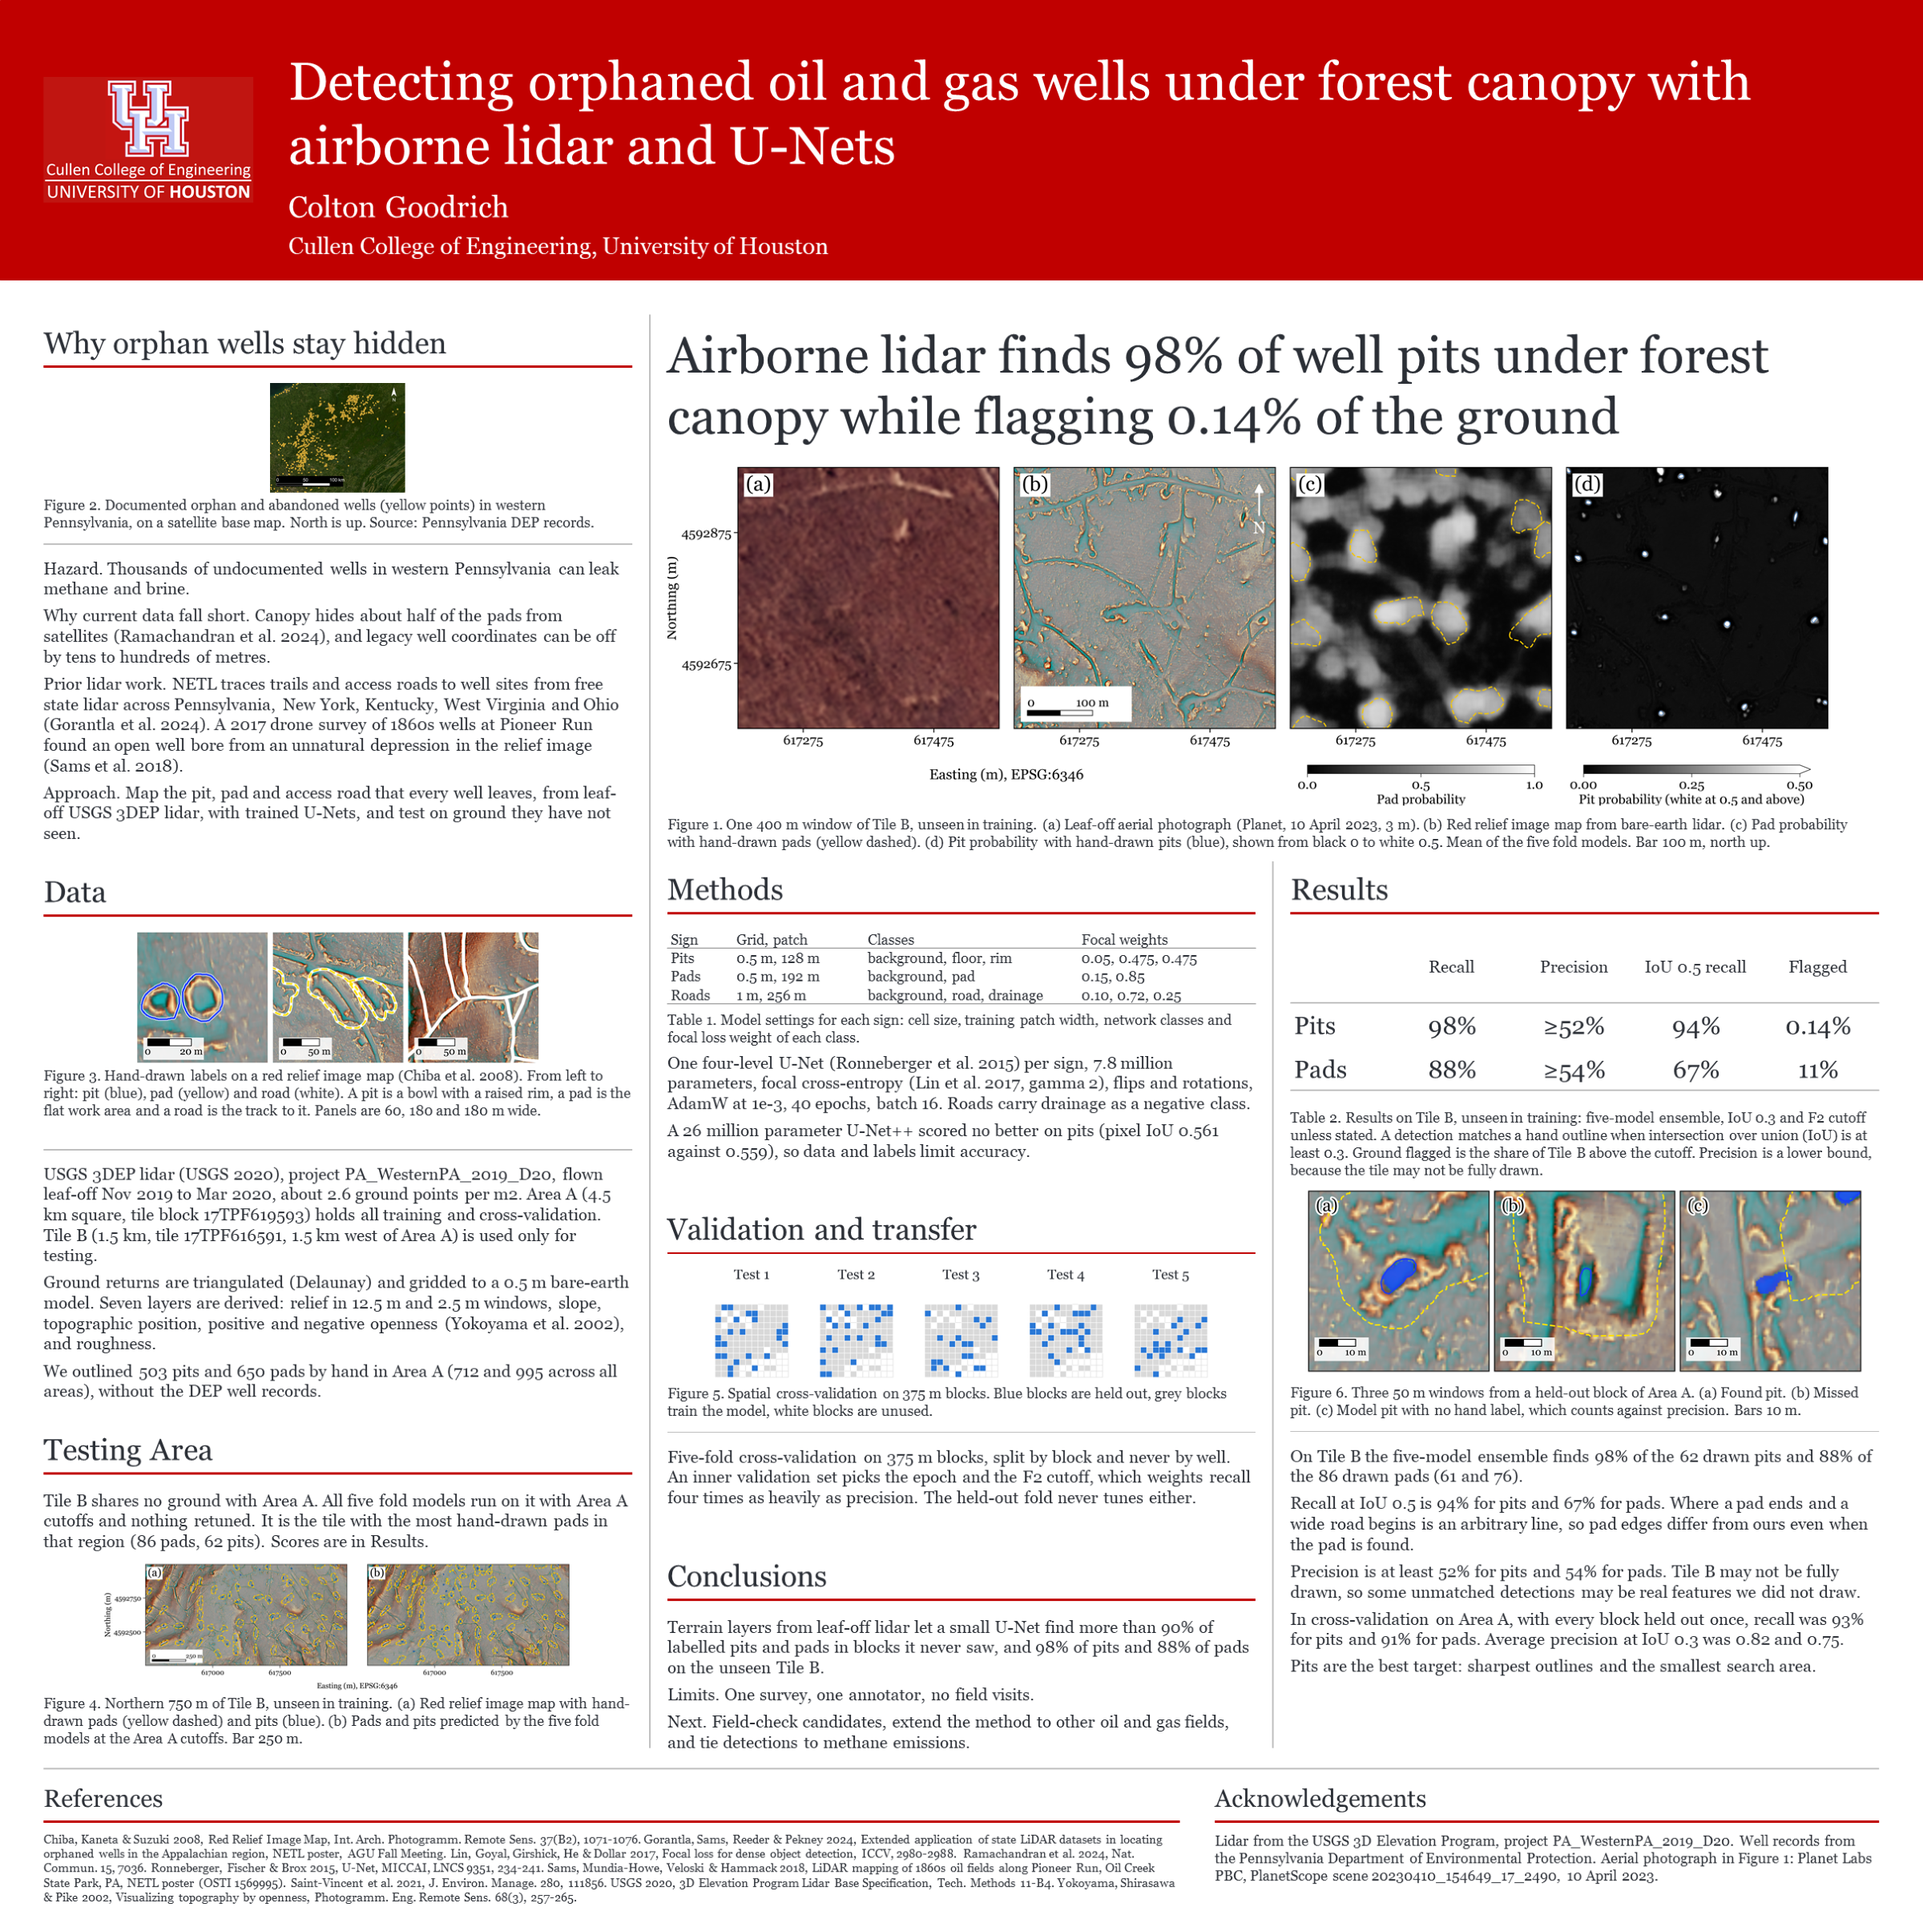
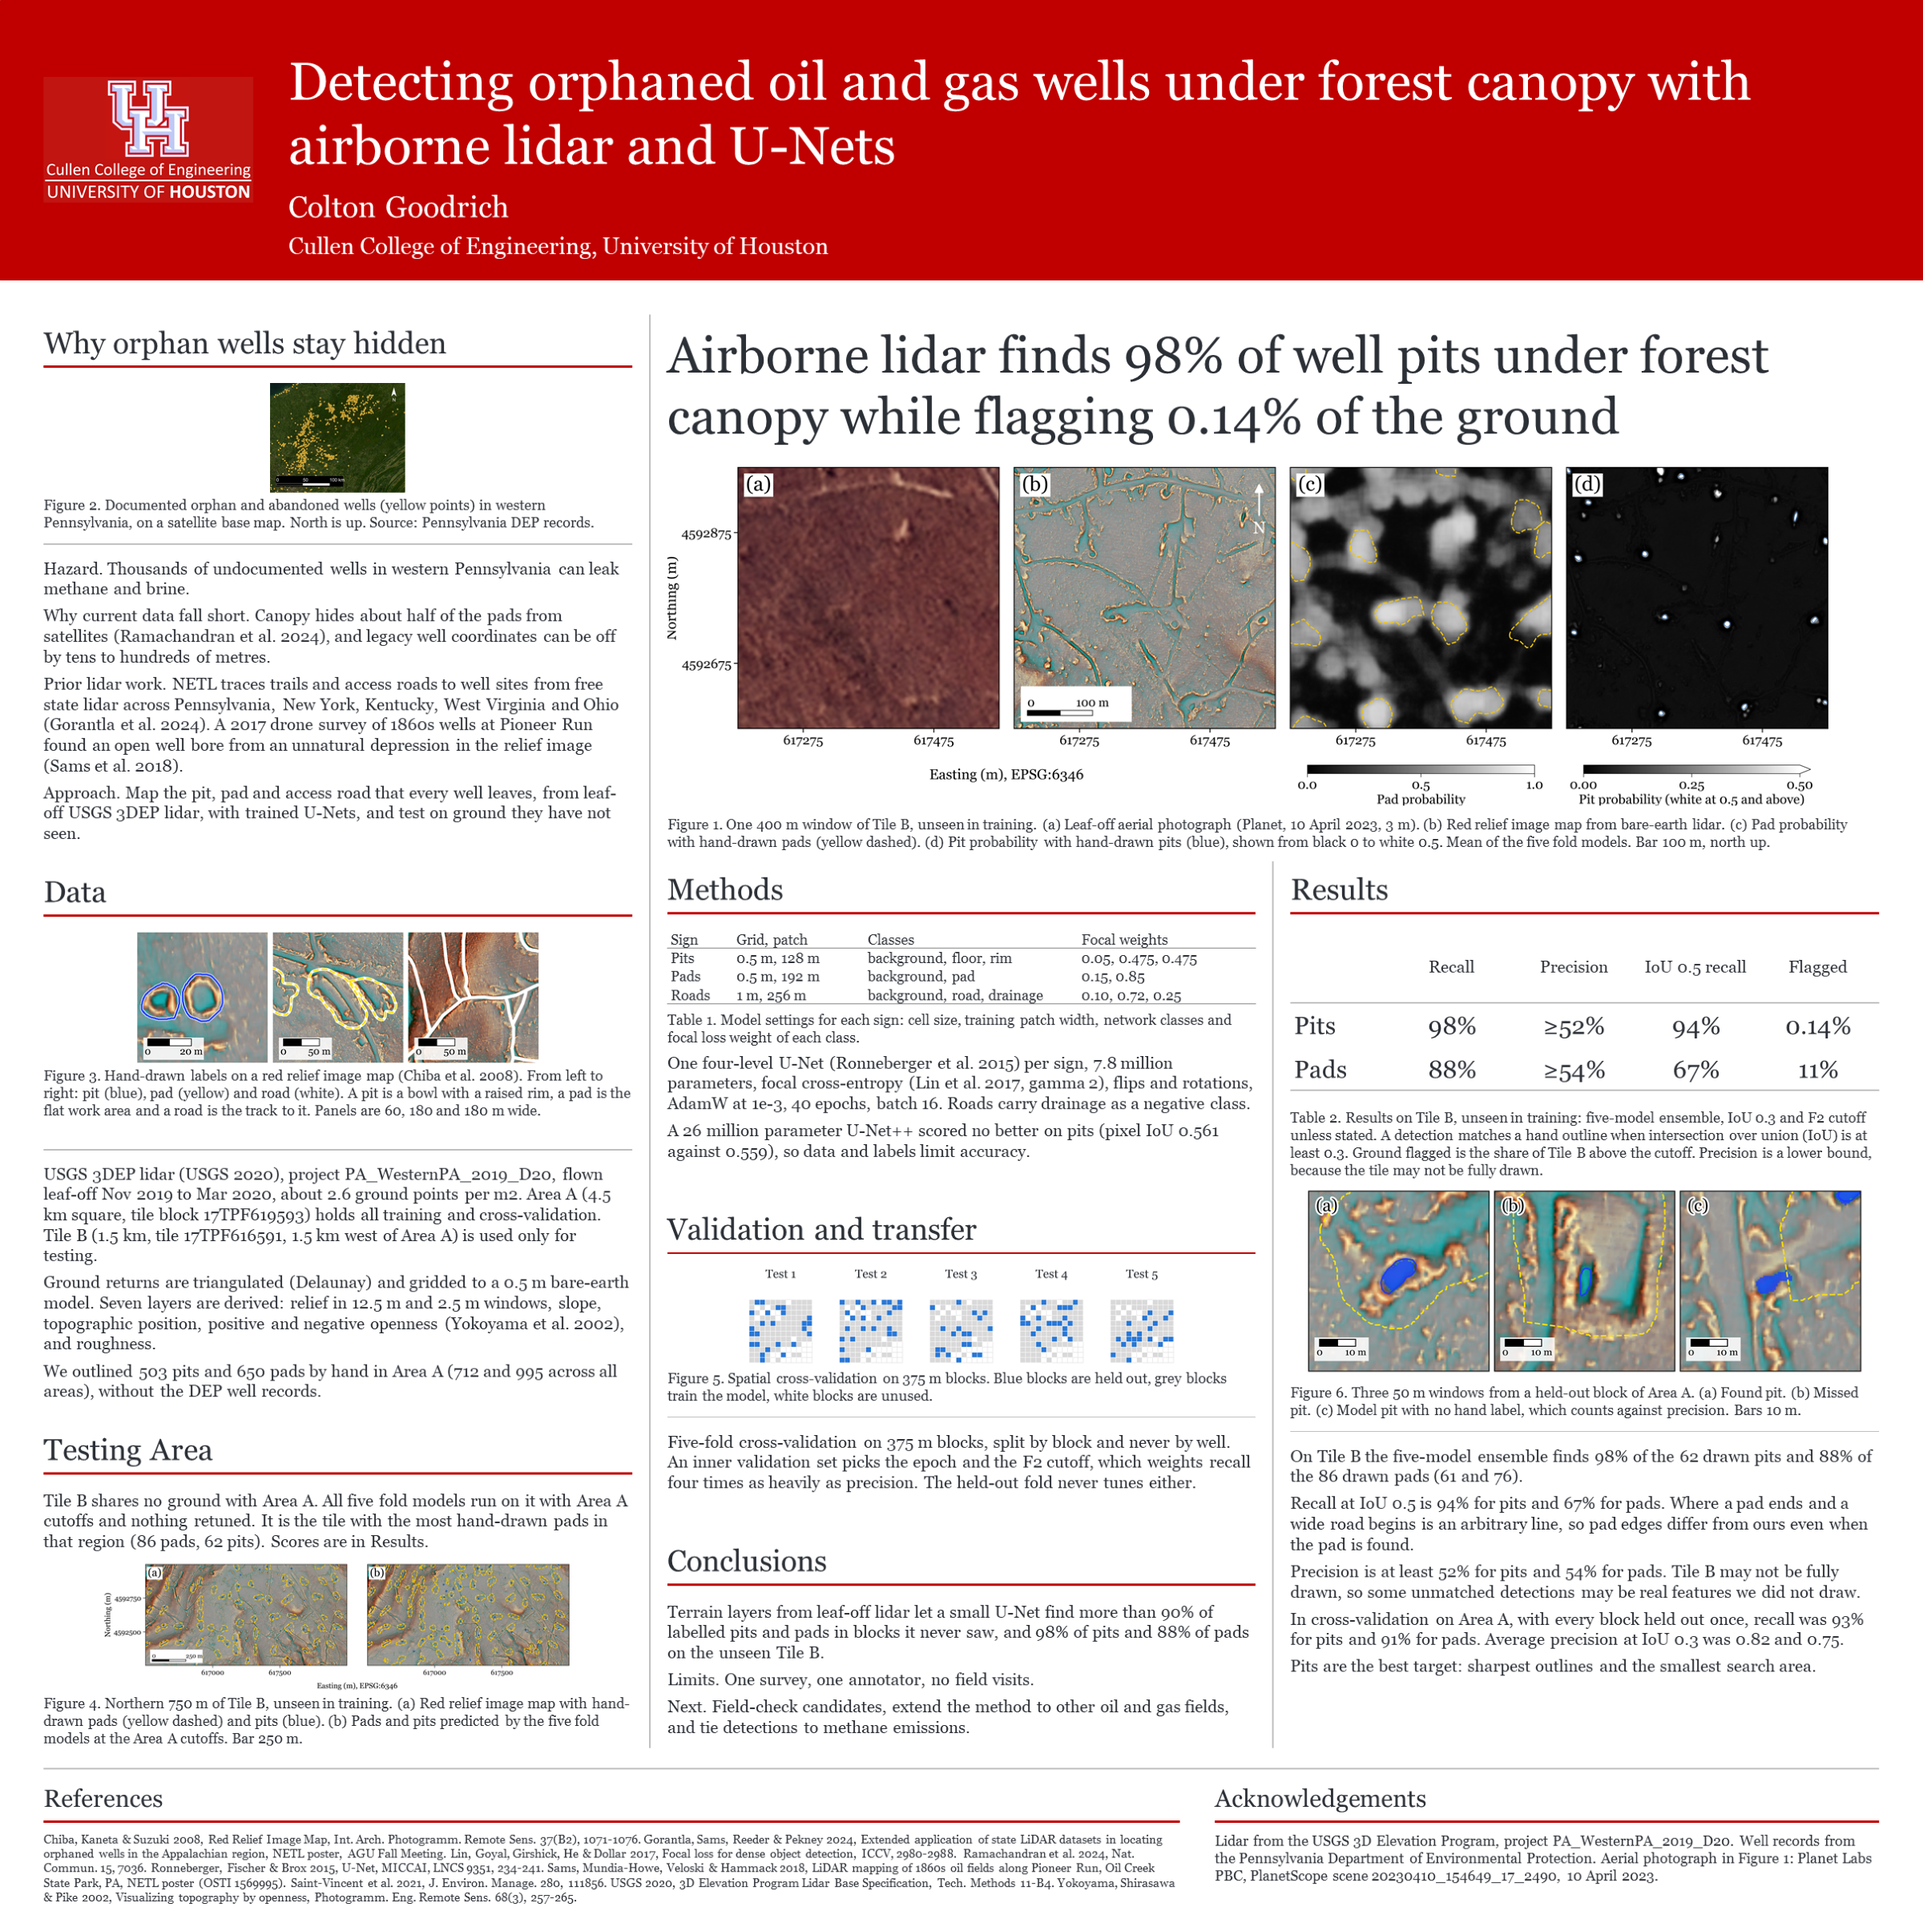
agu poster: clear Conclusions overflow warning

Changed region(s): [[0.3438, 0.6562, 0.6562, 0.7812], [0.3438, 0.8125, 0.6562, 0.9062]]

diff --git a/agu_poster/_make_agu_poster.py b/agu_poster/_make_agu_poster.py
@@ -120,7 +120,7 @@ SECTIONS = [
                  "A 26 million parameter U-Net++ scored no better on pits (pixel IoU 0.561 against 0.559), so data and labels limit accuracy."),
     ]),
     ("Validation and transfer", C2, None, [
-        ("fig", "valid", 2.55, "Five test sets of 375 m blocks"),
+        ("fig", "valid", 2.2, "Five test sets of 375 m blocks"),
         ("text", "Five-fold cross-validation on 375 m blocks, split by block and never by well. An inner validation set picks the epoch and the F2 cutoff, "
                  "which weights recall four times as heavily as precision. The held-out fold never tunes either."),
     ]),
